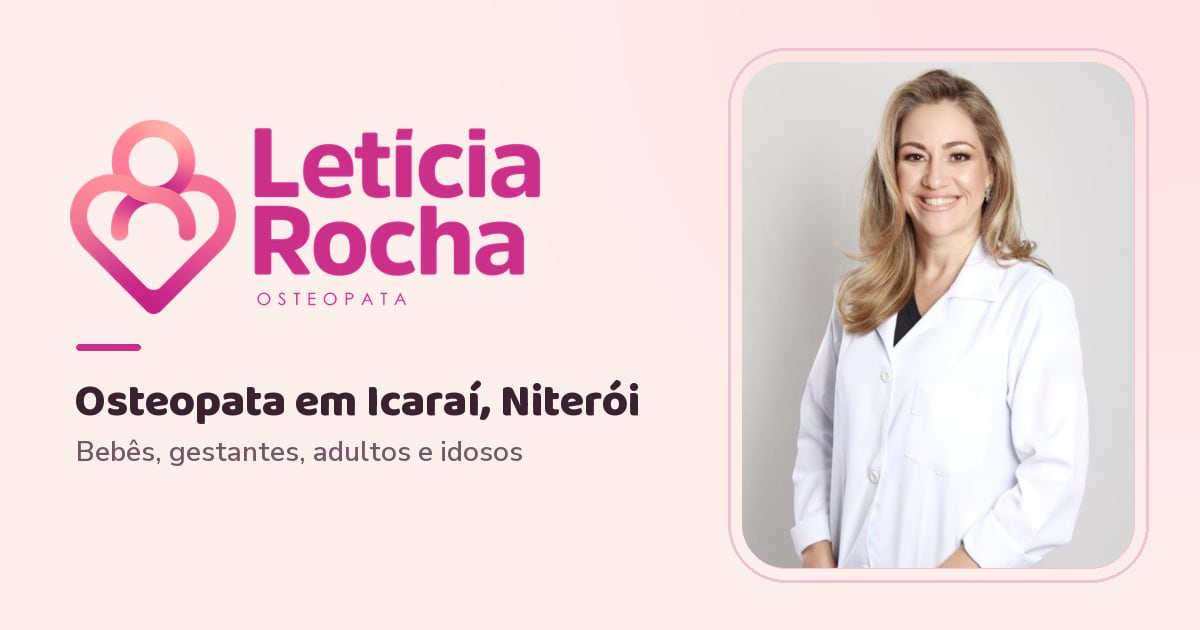
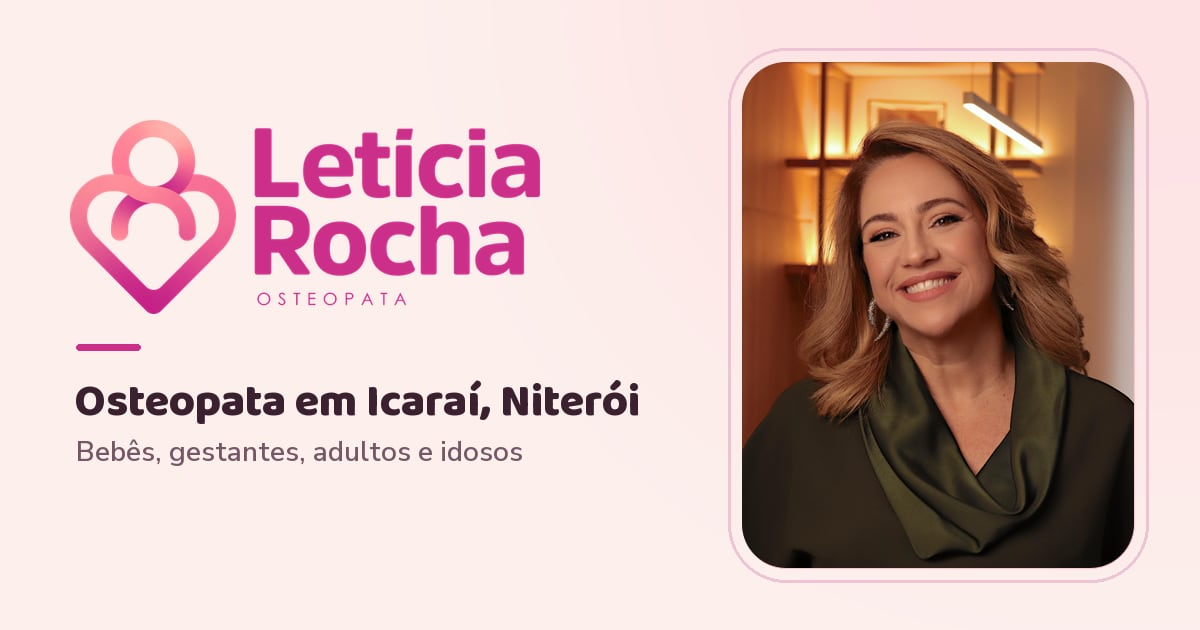
Novas fotos no hero e consultório acolhedor

Changed region(s): [[0.6167, 0.0905, 0.9558, 0.9048]]

diff --git a/index.html b/index.html
@@ -25,6 +25,7 @@
 <meta name="twitter:card" content="summary_large_image">
 <meta name="twitter:image" content="https://www.osteopataleticiarocha.com.br/assets/og-image.jpg">
 
+<link rel="preload" as="image" type="image/webp" imagesrcset="assets/fotos/leticia-retrato-480.webp 480w, assets/fotos/leticia-retrato-800.webp 800w, assets/fotos/leticia-retrato-1200.webp 1200w" imagesizes="(max-width:767px) calc(100vw - 40px), (max-width:1000px) 300px, 380px" fetchpriority="high">
 <link rel="preload" href="assets/fonts/nunitosans-latin.woff2" as="font" type="font/woff2" crossorigin>
 <link rel="preload" href="assets/fonts/baloo2-latin.woff2" as="font" type="font/woff2" crossorigin>
 <link rel="stylesheet" href="assets/css/site.css">
@@ -37,7 +38,7 @@
   "name": "Dra. Letícia Rocha | Osteopata",
   "description": "Osteopatia adulto e pediátrica e posturologia, com atendimento de bebês desde os primeiros dias de vida. 29 anos de experiência e +10 mil atendimentos.",
   "url": "https://www.osteopataleticiarocha.com.br/",
-  "image": "https://www.osteopataleticiarocha.com.br/assets/leticia-retrato.jpg",
+  "image": "https://www.osteopataleticiarocha.com.br/assets/fotos/leticia-retrato-1200.jpg",
   "logo": "https://www.osteopataleticiarocha.com.br/assets/logo-osteopata.png",
   "priceRange": "$$",
   "sameAs": [
@@ -56,7 +57,7 @@
     "@type": "Person",
     "name": "Letícia Rocha",
     "jobTitle": "Osteopata neonatologista",
-    "image": "https://www.osteopataleticiarocha.com.br/assets/leticia-retrato.jpg"
+    "image": "https://www.osteopataleticiarocha.com.br/assets/fotos/leticia-retrato-1200.jpg"
   }
 }
 </script>
@@ -108,16 +109,22 @@
       </div>
 
       <div class="hero-media">
-        <div class="blob">
-          <picture><source type="image/webp" srcset="assets/img/leticia-retrato-400.webp 400w, assets/img/leticia-retrato-800.webp 800w" sizes="(max-width:767px) 340px, 380px"><img src="assets/img/leticia-retrato-800.jpg" srcset="assets/img/leticia-retrato-400.jpg 400w, assets/img/leticia-retrato-800.jpg 800w" sizes="(max-width:767px) 340px, 380px" alt="Dra. Letícia Rocha, osteopata, sorrindo, de jaleco branco" width="724" height="1020" fetchpriority="high" decoding="async"></picture>
+        <div class="hf-main">
+          <div class="blob">
+            <picture><source type="image/webp" srcset="assets/fotos/leticia-retrato-480.webp 480w, assets/fotos/leticia-retrato-800.webp 800w, assets/fotos/leticia-retrato-1200.webp 1200w" sizes="(max-width:767px) calc(100vw - 40px), (max-width:1000px) 300px, 380px"><img src="assets/fotos/leticia-retrato-800.jpg" srcset="assets/fotos/leticia-retrato-480.jpg 480w, assets/fotos/leticia-retrato-800.jpg 800w, assets/fotos/leticia-retrato-1200.jpg 1200w" sizes="(max-width:767px) calc(100vw - 40px), (max-width:1000px) 300px, 380px" alt="Letícia Rocha, osteopata, sorrindo no consultório" width="800" height="1201" fetchpriority="high" decoding="async"></picture>
+          </div>
+          <div class="float-card fc-1">
+            <div class="fc-ico"><svg viewBox="0 0 24 24" aria-hidden="true"><path d="M12 21s-7-4.5-7-10a4 4 0 0 1 7-2.6A4 4 0 0 1 19 11c0 5.5-7 10-7 10z"/></svg></div>
+            <div><b>Especialidade em bebês</b><small>Desde os primeiros dias</small></div>
+          </div>
+          <div class="float-card fc-2">
+            <div class="fc-ico"><svg viewBox="0 0 24 24" aria-hidden="true"><path d="M20 6 9 17l-5-5"/></svg></div>
+            <div><b>Crefito2/25112F</b><small>Osteopatia · Posturologia</small></div>
+          </div>
         </div>
-        <div class="float-card fc-1">
-          <div class="fc-ico"><svg viewBox="0 0 24 24" aria-hidden="true"><path d="M12 21s-7-4.5-7-10a4 4 0 0 1 7-2.6A4 4 0 0 1 19 11c0 5.5-7 10-7 10z"/></svg></div>
-          <div><b>Especialidade em bebês</b><small>Desde os primeiros dias</small></div>
-        </div>
-        <div class="float-card fc-2">
-          <div class="fc-ico"><svg viewBox="0 0 24 24" aria-hidden="true"><path d="M20 6 9 17l-5-5"/></svg></div>
-          <div><b>Crefito2/25112F</b><small>Osteopatia · Posturologia</small></div>
+        <div class="hf-minis">
+          <div class="hf hf-b"><picture><source type="image/webp" srcset="assets/fotos/leticia-consultorio-480.webp 480w, assets/fotos/leticia-consultorio-800.webp 800w, assets/fotos/leticia-consultorio-1200.webp 1200w" sizes="(max-width:767px) calc(50vw - 25px), 160px"><img src="assets/fotos/leticia-consultorio-800.jpg" srcset="assets/fotos/leticia-consultorio-480.jpg 480w, assets/fotos/leticia-consultorio-800.jpg 800w, assets/fotos/leticia-consultorio-1200.jpg 1200w" sizes="(max-width:767px) calc(50vw - 25px), 160px" alt="Letícia Rocha de jaleco no consultório em Icaraí" width="800" height="1201" decoding="async"></picture></div>
+          <div class="hf hf-c"><picture><source type="image/webp" srcset="assets/fotos/leticia-bebes-480.webp 480w, assets/fotos/leticia-bebes-800.webp 800w, assets/fotos/leticia-bebes-1200.webp 1200w" sizes="(max-width:767px) calc(50vw - 25px), 160px"><img src="assets/fotos/leticia-bebes-800.jpg" srcset="assets/fotos/leticia-bebes-480.jpg 480w, assets/fotos/leticia-bebes-800.jpg 800w, assets/fotos/leticia-bebes-1200.jpg 1200w" sizes="(max-width:767px) calc(50vw - 25px), 160px" alt="Letícia Rocha segurando um boneco de bebê, representando a osteopatia neonatal" width="800" height="1201" decoding="async"></picture></div>
         </div>
       </div>
     </div>
@@ -186,7 +193,7 @@
       <a class="hub-card rv d2" href="sobre.html">
         <span class="ic"><svg class="ico" viewBox="0 0 24 24" aria-hidden="true"><circle cx="12" cy="8" r="4"/><path d="M4.5 21c.8-4 3.8-6.5 7.5-6.5s6.7 2.5 7.5 6.5"/></svg></span>
         <h3>Sobre a Letícia</h3>
-        <p>Osteopata neonatologista, 29 anos de prática, mais de 10 mil atendimentos e um consultório calmo em Icaraí.</p>
+        <p>Osteopata neonatologista, 29 anos de prática, mais de 10 mil atendimentos e um consultório acolhedor em Icaraí.</p>
         <span class="link-more">Conhecer a trajetória <span class="ar" aria-hidden="true">→</span></span>
       </a>
       <a class="hub-card rv" href="depoimentos.html">

diff --git a/assets/css/site.css b/assets/css/site.css
@@ -211,8 +211,8 @@ p{margin:0 0 1rem}
 
 .hero-media{position:relative;justify-self:center;width:100%;max-width:380px}
 .blob{position:relative;z-index:1;overflow:hidden;background:var(--coral-soft);border-radius:var(--r-xl);box-shadow:var(--shadow-l)}
-.blob img{width:100%;object-fit:cover;object-position:center 22%;aspect-ratio:1/1}
-.hero-media::after{
+.blob img{width:100%;object-fit:cover;object-position:50% 25%;aspect-ratio:4/5}
+.hf-main::after{
   content:"";position:absolute;inset:-14px;pointer-events:none;z-index:0;
   border-radius:calc(var(--r-xl) + 14px);border:2px solid rgba(204,47,137,.18);
 }
@@ -723,7 +723,7 @@ p{margin:0 0 1rem}
   .hero .lead{margin:18px auto 26px}
   .hero-cta,.hero-stats{justify-content:center}
   .hero-media{order:-1;max-width:320px;margin:0 auto 4px}
-  .hero-media::after{inset:-12px}
+  .hf-main::after{inset:-12px}
   .strip{margin-top:46px;padding:26px}
   .strip ul{grid-template-columns:1fr 1fr;gap:22px}
   .strip li + li{border-left:0;padding-left:0}
@@ -791,7 +791,7 @@ p{margin:0 0 1rem}
   .hero .lead{margin:15px auto 24px;max-width:38ch}
   .hero-media{max-width:min(300px,78vw)}
   .blob{border-radius:28px}
-  .hero-media::after{border-radius:38px;inset:-10px}
+  .hf-main::after{border-radius:38px;inset:-10px}
   .float-card{max-width:186px;padding:9px 13px;border-radius:15px;gap:10px}
   .float-card b{font-size:.82rem}
   .float-card small{font-size:.75rem}
@@ -1179,8 +1179,8 @@ p{margin:0 0 1rem}
   .hero{padding:88px 0 var(--sec-y)}
   .hero-grid{gap:36px}
   .hero-media{order:0;max-width:340px;width:100%;margin:0 auto}
-  .hero-media::after{inset:-8px;border-radius:calc(var(--r-l) + 8px)}
-  .blob img{aspect-ratio:4/5;object-position:center 18%}
+  .hf-main::after{inset:-8px;border-radius:calc(var(--r-l) + 8px)}
+  .blob img{aspect-ratio:4/5;object-position:50% 25%}
   .hero .lead{margin:16px auto 28px}
   .hero-cta{width:100%}
   /* cards da foto: dentro da área da foto, empilhados no canto inferior */
@@ -1310,6 +1310,45 @@ p{margin:0 0 1rem}
   .hdr .hdr-cta{padding:0 12px;font-size:.8rem}
   .ctrls{gap:2px}
 }
+
+/* =========================================================
+   HERO: composição com as 3 fotos (retrato, consultório e bebês)
+   ========================================================= */
+.hf-main{position:relative}
+.hf{overflow:hidden;background:var(--coral-soft);border-radius:var(--r-l)}
+.hf img{width:100%;height:100%;object-fit:cover;aspect-ratio:3/4}
+.hf-b img{object-position:50% 60%}
+.hf-c img{object-position:50% 75%}
+.baby-media img{object-position:50% 62%}
+
+/* tablet e desktop: fotos menores sobrepostas nos cantos da principal */
+@media(min-width:768px){
+  .hf{position:absolute;z-index:2;width:42%;border:6px solid #fff;box-shadow:var(--shadow-m)}
+  .hf-b{left:-18%;top:-7%}
+  .hf-c{right:-18%;bottom:-7%}
+  /* com três fotos, um card só: o do registro ficaria encostado no cabelo e poluiria a composição */
+  .fc-1{left:-40px;right:auto;top:auto;bottom:22px}
+  .fc-2{display:none}
+}
+@media(min-width:768px) and (max-width:1000px){
+  .hero-media{max-width:300px;margin:28px auto 34px}
+  .fc-1{left:-24px;text-align:left}
+}
+
+/* celular: principal em largura total e as duas menores lado a lado logo abaixo */
+@media(max-width:767px){
+  .hero-media{max-width:none}
+  .hf-minis{display:grid;grid-template-columns:1fr 1fr;gap:10px;margin-top:10px}
+  .hf img{aspect-ratio:4/5}
+  .hf-b img{object-position:50% 50%}
+}
+
+/* entrada discreta: principal primeiro, as menores 80ms depois */
+@media(prefers-reduced-motion:no-preference){
+  .hero-media .blob{animation:hfEntra .7s cubic-bezier(.2,.8,.2,1) both}
+  .hf{animation:hfEntra .7s cubic-bezier(.2,.8,.2,1) .08s both}
+}
+@keyframes hfEntra{from{opacity:0;transform:translate3d(0,16px,0)}}
 
 @media(prefers-reduced-motion:reduce){
   *,*::before,*::after{animation:none!important;transition:none!important;scroll-behavior:auto!important}

diff --git a/sobre.html b/sobre.html
@@ -90,7 +90,7 @@
 <section class="sec about watermark left" id="sobre">
   <div class="wrap about-grid">
     <div class="about-media rv">
-      <div class="main"><picture><source type="image/webp" srcset="assets/img/atendimento-adulto-480.webp 480w, assets/img/atendimento-adulto-771.webp 771w" sizes="(max-width:640px) 90vw, 440px"><img src="assets/img/atendimento-adulto-771.jpg" srcset="assets/img/atendimento-adulto-480.jpg 480w, assets/img/atendimento-adulto-771.jpg 771w" sizes="(max-width:640px) 90vw, 440px" alt="Dra. Letícia Rocha aplicando uma técnica manual de osteopatia na cabeça e no pescoço de uma paciente deitada" width="771" height="1020" loading="lazy" decoding="async"></picture></div>
+      <div class="main"><picture><source type="image/webp" srcset="assets/fotos/leticia-consultorio-480.webp 480w, assets/fotos/leticia-consultorio-800.webp 800w, assets/fotos/leticia-consultorio-1200.webp 1200w" sizes="(max-width:640px) 90vw, 440px"><img src="assets/fotos/leticia-consultorio-800.jpg" srcset="assets/fotos/leticia-consultorio-480.jpg 480w, assets/fotos/leticia-consultorio-800.jpg 800w, assets/fotos/leticia-consultorio-1200.jpg 1200w" sizes="(max-width:640px) 90vw, 440px" alt="Letícia Rocha de jaleco no consultório em Icaraí" width="800" height="1201" loading="lazy" decoding="async"></picture></div>
       <div class="mini"><picture><source type="image/webp" srcset="assets/img/bebe-bola-320.webp 320w, assets/img/bebe-bola-471.webp 471w" sizes="200px"><img src="assets/img/bebe-bola-471.jpg" srcset="assets/img/bebe-bola-320.jpg 320w, assets/img/bebe-bola-471.jpg 471w" sizes="200px" alt="Dra. Letícia Rocha sentada na bola terapêutica com um bebê no colo" width="471" height="1020" loading="lazy" decoding="async"></picture></div>
     </div>
 

diff --git a/bebes.html b/bebes.html
@@ -104,7 +104,7 @@
     </div>
 
     <div class="baby-media rv d1">
-      <picture><source type="image/webp" srcset="assets/img/atendimento-bebe-480.webp 480w, assets/img/atendimento-bebe-736.webp 736w" sizes="(max-width:1000px) min(460px, 90vw), 520px"><img src="assets/img/atendimento-bebe-736.jpg" srcset="assets/img/atendimento-bebe-480.jpg 480w, assets/img/atendimento-bebe-736.jpg 736w" sizes="(max-width:1000px) min(460px, 90vw), 520px" alt="Dra. Letícia Rocha atendendo um bebê deitado na maca, com toques delicados" width="736" height="664" loading="lazy" decoding="async"></picture>
+      <picture><source type="image/webp" srcset="assets/fotos/leticia-bebes-480.webp 480w, assets/fotos/leticia-bebes-800.webp 800w, assets/fotos/leticia-bebes-1200.webp 1200w" sizes="(max-width:1000px) min(460px, 90vw), 520px"><img src="assets/fotos/leticia-bebes-800.jpg" srcset="assets/fotos/leticia-bebes-480.jpg 480w, assets/fotos/leticia-bebes-800.jpg 800w, assets/fotos/leticia-bebes-1200.jpg 1200w" sizes="(max-width:1000px) min(460px, 90vw), 520px" alt="Letícia Rocha segurando um boneco de bebê, representando a osteopatia neonatal" width="800" height="1201" loading="lazy" decoding="async"></picture>
       <span class="baby-badge"><i class="mark big" aria-hidden="true"></i><span>Desde os primeiros dias</span></span>
     </div>
   </div>

diff --git a/blog/_modelo-post.html b/blog/_modelo-post.html
@@ -55,7 +55,7 @@
   "headline": "EDITE: Título do artigo",
   "description": "EDITE: resumo do artigo em uma ou duas frases (aparece no Google e no card do blog).",
   "datePublished": "2027-01-01T12:00:00.000Z",
-  "image": "https://www.osteopataleticiarocha.com.br/assets/leticia-retrato.jpg",
+  "image": "https://www.osteopataleticiarocha.com.br/assets/fotos/leticia-retrato-1200.jpg",
   "author": {
     "@type": "Person",
     "name": "Letícia Rocha",
@@ -119,7 +119,7 @@
     </div>
 
     <div class="author-card">
-      <picture><source type="image/webp" srcset="../assets/img/leticia-retrato-400.webp"><img src="../assets/img/leticia-retrato-400.jpg" alt="Dra. Letícia Rocha, osteopata" width="66" height="66" loading="lazy" decoding="async"></picture>
+      <picture><source type="image/webp" srcset="../assets/fotos/leticia-retrato-480.webp"><img src="../assets/fotos/leticia-retrato-480.jpg" alt="Dra. Letícia Rocha, osteopata" width="66" height="66" loading="lazy" decoding="async"></picture>
       <div>
         <b>Dra. Letícia Rocha</b>
         <span>Osteopata · 29 anos de experiência · <span data-site="crefito">Crefito2/25112F</span></span>

diff --git a/contato.html b/contato.html
@@ -57,7 +57,7 @@
   "name": "Dra. Letícia Rocha | Osteopata",
   "description": "Osteopatia adulto e pediátrica e posturologia, com atendimento de bebês desde os primeiros dias de vida. 29 anos de experiência e +10 mil atendimentos.",
   "url": "https://www.osteopataleticiarocha.com.br/",
-  "image": "https://www.osteopataleticiarocha.com.br/assets/leticia-retrato.jpg",
+  "image": "https://www.osteopataleticiarocha.com.br/assets/fotos/leticia-retrato-1200.jpg",
   "logo": "https://www.osteopataleticiarocha.com.br/assets/logo-osteopata.png",
   "priceRange": "$$",
   "sameAs": [
@@ -76,7 +76,7 @@
     "@type": "Person",
     "name": "Letícia Rocha",
     "jobTitle": "Osteopata neonatologista",
-    "image": "https://www.osteopataleticiarocha.com.br/assets/leticia-retrato.jpg"
+    "image": "https://www.osteopataleticiarocha.com.br/assets/fotos/leticia-retrato-1200.jpg"
   }
 }
 </script>
